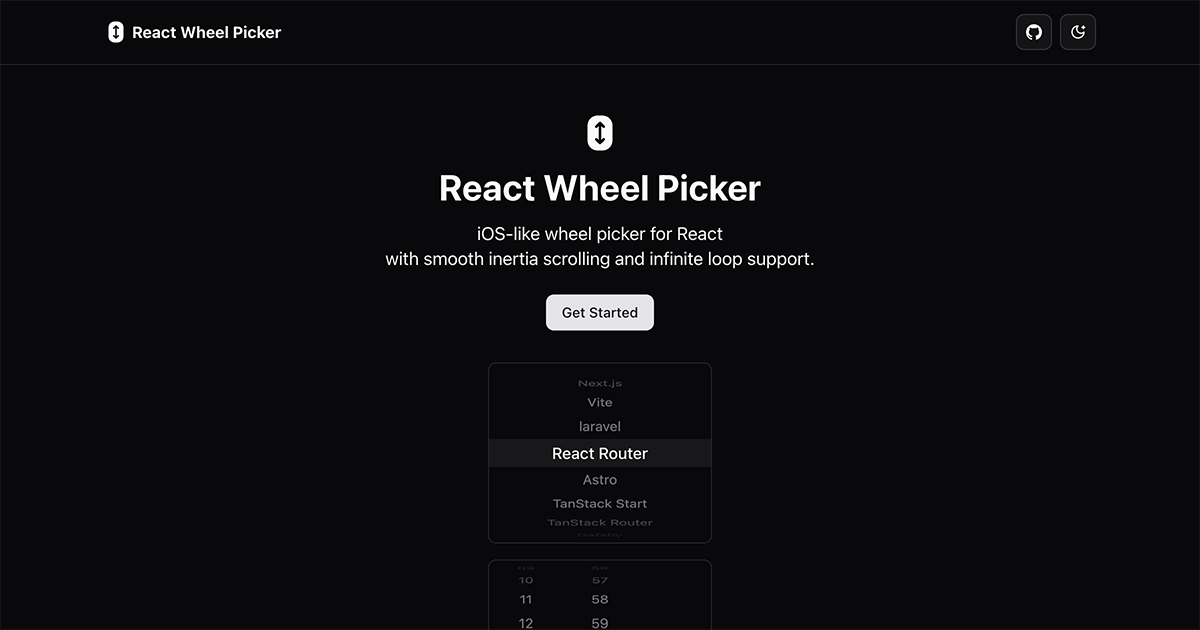
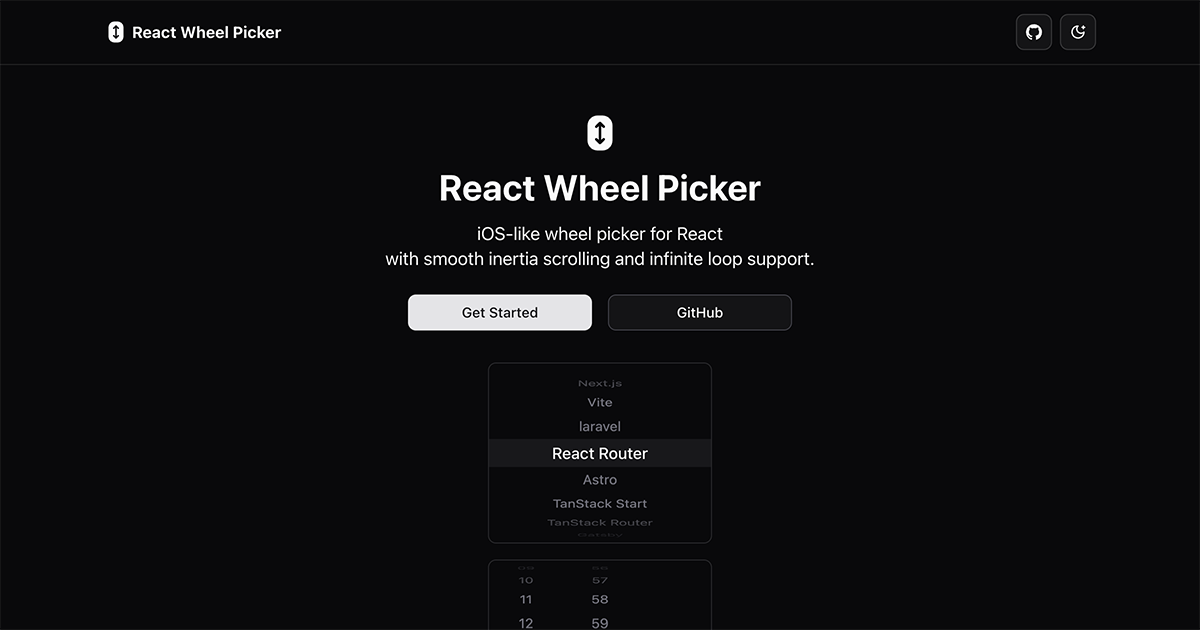
feat(website): update og-image.png to new version for improved social media sharing visuals
refactor(layout.tsx): introduce ogImageUrl constant for better maintainability and cache busting

feat(page.tsx): add GitHub button linking to source code for easier access to repository

style(page.tsx): update button layout to grid for improved responsiveness and alignment

Changed region(s): [[0.3392, 0.4524, 0.6475, 0.5429]]

diff --git a/website/src/app/page.tsx b/website/src/app/page.tsx
@@ -2,6 +2,7 @@ import "@ncdai/react-wheel-picker/dist/style.css";
 
 import { Mark } from "@/components/mark";
 import { Button } from "@/components/ui/button";
+import { SOURCE_CODE_GITHUB_URL } from "@/config/site";
 
 import { MultiPickerDemo } from "./multi-picker-demo";
 import { SimplePickerDemo } from "./simple-picker-demo";
@@ -20,7 +21,7 @@ export default function Home() {
         with smooth inertia scrolling and infinite loop support.
       </p>
 
-      <div className="mb-8 flex justify-center">
+      <div className="mx-auto mb-8 grid grid-cols-2 gap-4 sm:w-sm">
         <Button asChild>
           <a
             href="https://chanhdai.com/blog/react-wheel-picker"
@@ -28,6 +29,16 @@ export default function Home() {
             rel="noopener"
           >
             Get Started
+          </a>
+        </Button>
+
+        <Button
+          variant="outline"
+          className="border-zinc-300 dark:border-zinc-700"
+          asChild
+        >
+          <a href={SOURCE_CODE_GITHUB_URL} target="_blank" rel="noopener">
+            GitHub
           </a>
         </Button>
       </div>

diff --git a/website/src/app/layout.tsx b/website/src/app/layout.tsx
@@ -17,6 +17,8 @@ const geistMono = Geist_Mono({
   subsets: ["latin"],
 });
 
+const ogImageUrl = "/og-image.png?v=250516";
+
 export const metadata: Metadata = {
   title: "React Wheel Picker",
   description:
@@ -34,7 +36,7 @@ export const metadata: Metadata = {
     url: "/",
     images: [
       {
-        url: "/og-image.png",
+        url: ogImageUrl,
         width: 1200,
         height: 630,
         alt: "React Wheel Picker",
@@ -44,7 +46,7 @@ export const metadata: Metadata = {
   twitter: {
     card: "summary_large_image",
     creator: "@iamncdai", // Twitter username
-    images: ["/og-image.png"],
+    images: [ogImageUrl],
   },
 };
 
